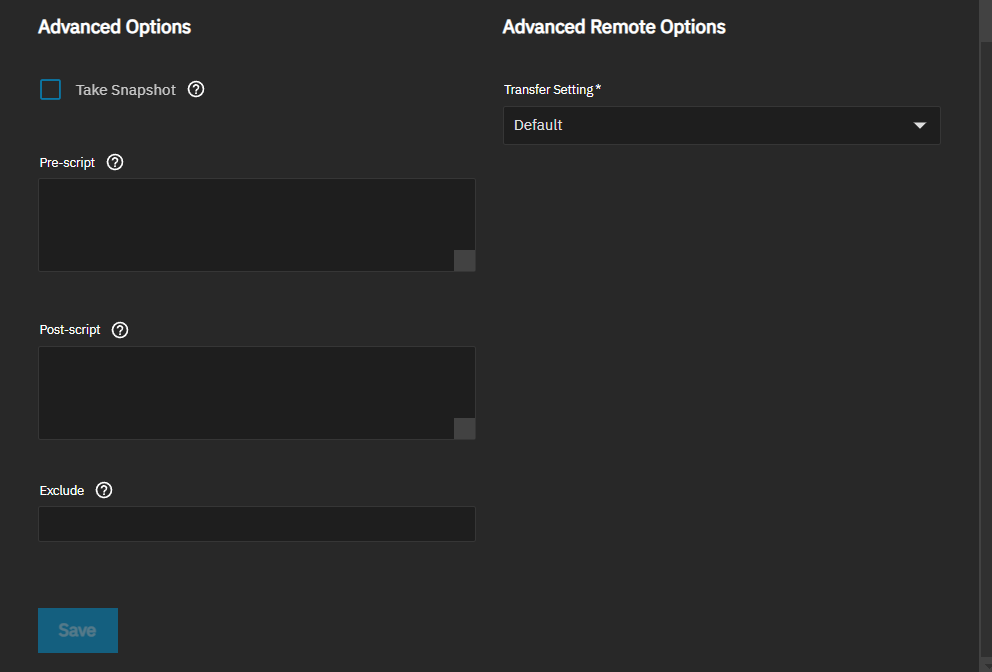
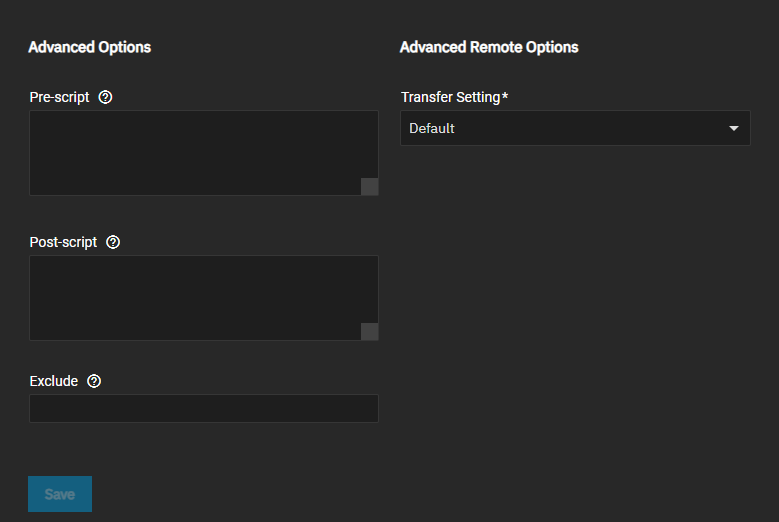
PD-1613 / 25.04 / Pd 1613 update truecloud backup article content (#3378)
* PD-1661: comment out "take snapshot" option for TrueCloud task (for now)

This has been disabled pending a rework.

* PD-1613 Update Truecloud Backup and Cloud Sync Task Article Content

This commit updates the UI ref content inr the TruecloudBackupTaskScreen.md and CloudSyncTaskScreensSCALE.md article with UI and behavior changes.
Updates the TrueCloudTasks.md and StorjBucket.md snippet files with new screenshots and updated content.

* PD-1613 Fix List of Environment Variables and Add new Screenshot

This commit converts the list of environment variables to a bullet list, and adds an updated screenshot of AddTrueCloudBackupTaskAdvancedOptions.md

* Update content/SCALE/SCALEUIReference/DataProtection/CloudSyncTasksScreensSCALE.md

---------

diff --git a/content/SCALE/SCALEUIReference/DataProtection/TrueCloudBackupTasksScreen.md b/content/SCALE/SCALEUIReference/DataProtection/TrueCloudBackupTasksScreen.md
@@ -14,7 +14,7 @@ keywords:
 
 The **TrueCloud Backup Tasks** widget on the **Data Protection** screen shows configured TrueCloud tasks, and provides access to configuration screens to add or schedule recurring transfers between TrueNAS and a cloud storage provider account like Storj iX.
 
-TrueCloud backup tasks are an effective method to back up data to a remote location, restore snapshots, or perform cloud-storage-migration.
+TrueCloud backup tasks effectively back up data to remote locations, restore snapshots, and perform cloud-storage migration.
 
 ## TrueCloud Backup Tasks Widget
 The **TrueCloud Backup Tasks** widget shows a list of tasks configured on the system.
@@ -42,7 +42,7 @@ Each task on the widget shows four icons for various functions:
 * **SUCCESS** for completed tasks.
 * **FAILED** if the task fails to complete.
 * **RUNNING** for tasks in progress.
-8 **N/A** for scheduled tasks before they run.
+* **N/A** for scheduled tasks before they run.
 
 ### TrueCloud Logs Dialog
 The state oval opens the **Logs** dialog for that task.
@@ -92,44 +92,44 @@ Additional settings show depending on the **Include/Exclude** selection.
 | Settings | Description |
 |----------|-------------|
 | **Include Everything** | Select to restore all backed-up data from the remote snapshot to the selected local path. |
-| **Include from subfolder** | Select to restore data from a subfolder within the backed-up data.  |
-| **Subfolder** | Shows when **Include from subfolder** is selected. Enter or browse to the subfolder within the snapshot to restore data from. |
+| **Include from subfolder** | Select to restore data from a subfolder within the backed-up data.  |
+| **Subfolder** | Shows when **Include from subfolder** is selected. Enter or browse to the subfolder within the snapshot with the data to restore. |
 | **Included Paths** | Shows when **Include from subfolder** is selected. Select files and directories to include from the backup. Leave empty to include everything in the selected subfolder. |
 | **Select paths to exclude** | Select to exclude only certain paths from the data to restore. |
-| **Excluded Paths** | Shows when **Select paths to exclude** is selected. Enter or select files and directories to exclude from the backup. Select as many checkboxes  as you want to select multiple paths or separate multiple entries with a comma. |
+| **Excluded Paths** | Shows when **Select paths to exclude** is selected. Enter or select files and directories to exclude from the backup. Select as many checkboxes as desired to select multiple paths or separate multiple entries with a comma. |
 | **Exclude by pattern** | Select to exclude files and directories matching defined glob patterns. |
 | **Pattern** | Shows when **Exclude by pattern** is selected. | 
 {{< /truetable >}}
 
 #### Local Settings
 Use **Local** settings to select the target mount point on the current (local) system where files are restored.
-Be cautious with setting the restore target to avoid overwriting existing files.
+Be cautious when setting the restore target to avoid overwriting existing files.
 
-**Target** enter the path to the dataset or directory or browse to the location to populate the field with the local directory where files are restored.
+**Target** settings allow entering the path to the dataset or directory or browse to the location to populate the field with the local directory where files are restored.
 
 {{< include file="/static/includes/FileExplorerFolderIcons.md" >}}
 
 **<i class="material-icons" aria-hidden="true" title="Create Dataset">create_new_folder</i> Create Dataset** opens a dialog to name and create a new dataset at the selected target.
 
 **Save** starts restoring data from the snapshot.
-  
+  
 ## Add and Edit TrueCloud Backup Task Screen
 The **Add TrueCloud Backup Task** and **Edit TrueCloud Backup Task** screens contain options to configure a new backup task.
 The edit screen opens populated with the existing task settings.
-Each screen shows the **Local**, **Remote**, **Task Settings**, and **Control** basic settings.
-The **Advanced** and **Advanced Remote Options** are for use by advanced users.
+Each screen shows the **Local**, **Remote**, **Task Settings**, and **Control** settings.
+The **Advanced** and **Advanced Remote Options** are for advanced users.
 
 {{< trueimage src="/images/SCALE/DataProtection/AddTrueCloudTaskBasicOptions.png" alt="Add TrueCloud Backup Task - Basic Options" id="Add TrueCloud Backup Task - Basic Options" >}}
 
 ### Local Settings
-**Local** settings allow selecting the dataset or directory to use in the task. Selecting the dataset populates the **Source Path** field.
+**Local** settings set the dataset or directory used in the task. Selecting the dataset populates the **Source Path** field.
 
 {{< include file="/static/includes/FileExplorerFolderIcons.md" >}}
 
 {{< truetable >}}
 | Settings | Description |
 |----------|-------------|
-| **Source Path** | Enter or browse to the path of the dataset or directory with the data to send to the cloud backup provider used in the task. Click the <span class="material-icons">arrow_right</span> arrow to the left of the **/mnt** folder to expand and show datasets and directories within that folder. This is the dataset or directory location with the data the TrueCloud backup task sends to the cloud storage provider. Click the <span class="material-icons">arrow_right</span> arrow to the left of the **/mnt** folder again to collapse the directory tree. |
+| **Source Path** | Enter or browse to select the dataset or directory with the data to send to the cloud backup provider set in the task. Click the <span class="material-icons">arrow_right</span> arrow to the left of the **/mnt** folder to expand and show datasets and directories within that folder. This is the dataset or directory location with the data the TrueCloud backup task sends to the cloud storage provider. Click the <span class="material-icons">arrow_right</span> arrow to the left of the **/mnt** folder again to collapse the directory tree. |
 {{< /truetable >}}
 
 ### Remote Settings
@@ -139,9 +139,9 @@ The **Remote** settings specify the TrueCloud credential and destination storage
 | Settings | Description |
 |----------|-------------|
 | **Credential** | Select an existing Storj iX credential from the dropdown list. TrueNAS automatically validates the selected credential. <br> Select **Add New** to open the [**Cloud Credentials**]({{< relref "CloudCredentialScreens.md" >}}) screen. This is the same configuration screen that opens when you click **Add** on the **Credentials > Backup Credentials** screen. |
-| **Bucket** | Displays after selecting the Storj credential. Select a pre-configured Storj bucket. Only TrueNAS compatible Storj buckets are selectable. <br> Select **Add New** to create a new Storj bucket from the TrueNAS UI. |
-| **New Bucket Name** | Displays when **Add New** is selected in the **Bucket** field. Enter the name for the new bucket. Only lowercase letters, numbers, and hyphens are allowed. |
-| **Folder** | Enter or browse to the dataset or directory to receive the backed-up data. Click the <span class="material-icons">arrow_right</span> arrow to the left of the folder icon and at each dataset or directory to reach the storage location to use for this task. <br> Enter <code>/<i>name</i></code>, where *name* is a folder that does not exist, to create a new folder in the bucket. |
+| **Bucket** | Displays after selecting the Storj credential. Select a pre-configured Storj bucket. Only TrueNAS-compatible Storj buckets are selectable. <br> Select **Add New** to create a new Storj bucket from the TrueNAS UI. |
+| **New Bucket Name** | Displays when **Add New** is selected in the **Bucket** field. Enter a name for the new bucket. Only lowercase letters, numbers, and hyphens are allowed. |
+| **Folder** | Enter or browse to select the dataset or directory to receive the backed-up data. Click the <span class="material-icons">arrow_right</span> arrow to the left of the folder icon and at each dataset or directory to reach the storage location to use for this task. <br> Enter <code>/<i>name</i></code>, where *name* is a folder that does not exist, to create a new folder in the bucket. |
 {{< /truetable >}}
 
 ### Task Settings
@@ -151,7 +151,7 @@ The **Remote** settings specify the TrueCloud credential and destination storage
 | Settings | Description |
 |----------|-------------|
 | **Name** | Enter a name for the TrueCloud backup task. |
-| **Keep Last** | Enter a number of past snapshot copies to retain before removing older snapshots. |
+| **Keep Last** | Enter a number for the past snapshot copies to retain before removing older snapshots. |
 | **Password** | Enter a password for the backup repository. Record this password in a secure location. Required to recreate the task using the same bucket/folder, such as in a new TrueNAS install or system, or to restore data from the existing snapshots in another TrueNAS system. |
 {{< /truetable >}}
 
@@ -170,25 +170,41 @@ The **Remote** settings specify the TrueCloud credential and destination storage
 {{< /expand >}}
 
 ### Advanced Options Settings
-**Advanced Options** settings are intended for use by advanced users.
+**Advanced Options** settings are intended for advanced users.
 
 {{< trueimage src="/images/SCALE/DataProtection/AddTrueCloudTaskAdvancedOptions.png" alt="Add TrueCloud Backup Task - Advanced Options" id="Add TrueCloud Backup Task - Advanced Options" >}}
 
+<!-- <to be re-added to the table at a later date> | **Take Snapshot** | Select to take a snapshot before transferring data to the specified cloud provider like Storj. This option is not available to datasets with child datasets. |-->
+
 {{< truetable >}}
 | Settings | Description |
 |----------|-------------|
-| **Take Snapshot** | Select to take a snapshot before transferring data to the specified cloud provider like Storj. This option is not available to datasets with child datasets. |
-| **Pre-Script** | (For advanced users only) Enter a script to execute before running the task. See the [Managing TrueCloud Backup Tasks tutorial]({{< relref "TrueCloudTasks.md #using-advanced-options" >}}) for more information. |
-| **Post-Script** | (For advanced users only) Enter a script to execute after running the task. See the [Managing TrueCloud Backup Tasks tutorial]({{< relref "TrueCloudTasks.md #using-advanced-options" >}}) for more information. |
-| **Exclude** | Enter a list of files and directories to exclude from the backup. Separate entries by pressing <kbd>Enter</kbd>. See [rclone filtering](https://rclone.org/filtering/) for more details about the `--exclude` option and proper syntax. |
+| **Pre-Script** | (For advanced users only) Enter a script to execute before running the task. See **Script Environment Variables** list below for variables you can use in scripts. See the [Managing TrueCloud Backup Tasks tutorial]({{< relref "TrueCloudTasks.md #using-advanced-options" >}}) for more information. |
+| **Post-Script** | (For advanced users only) Enter a script to execute after running the task. See **Script Environment Variables** list below for variables you can use in scripts. See the [Managing TrueCloud Backup Tasks tutorial]({{< relref "TrueCloudTasks.md #using-advanced-options" >}}) for more information. |
+| **Exclude** | Enter a list of files and directories to exclude from backup. Separate entries by pressing <kbdEnter</kbd>. See [restic exclude patterns](https://restic.readthedocs.io/en/latest/040_backup.html#excluding-files) for more details about the `--exclude option`. |
+| **Pre-Script** | (For advanced users only) Enter a script to execute before running the task. See the [Managing TrueCloud Backup Tasks tutorial]({{< relref "TrueCloudTasks.md #using-advanced-options" >}}) for more information. See **Script Environment Variables** below for a list of variables for scripts. |
+| **Post-Script** | (For advanced users only) Enter a script to execute after running the task. See the [Managing TrueCloud Backup Tasks tutorial]({{< relref "TrueCloudTasks.md #using-advanced-options" >}}) for more information. See **Script Environment Variables** below for a list of variables for scripts. |
+| **Exclude** | Enter a list of files and directories to exclude from the backup. Separate entries by pressing <kbd>Enter</kbd>. See [restic exclude patterns](https://restic.readthedocs.io/en/latest/040_backup.html#excluding-files) for more information about the `--exclude` option and proper syntax. |
 {{< /truetable >}}
 
+{{< expand "Script Environment Variables" "v" >}}
+The following environment variables can be used in pre and post-scripts.
+<li>CLOUD_BACKUP_ID
+<li>CLOUD_BACKUP_DESCRITPION
+<li>CLOUD_BACKUP_PASSWORD
+<li>CLOUD_BACKUP_KEEP_LAST
+<li>CLOUD_BACKUP_TRANSFER_SETTING
+<li>CLOUD_BACKUP_ACCESS_KEY_ID
+<li>CLOUD_BACKUP_FOLDER
+<li>CLOUD_BACKUP_BUCKET
+<li>CLOUD_BACKUP_FAST_LIST (always zero (0) for false, planned removal in Fangtooth)</li>
+{{< /expand >}}
+
 ### Advanced Remote Options
-**Advanced Remote Options** settings are intended for use by advanced users.
+**Advanced Remote Options** settings are intended for advanced users.
 
 {{< truetable >}}
 | Settings | Description |
 |----------|-------------|
-| **Transfers** | Enter the number of simultaneous file transfers to allow. Base the number on the available bandwidth and destination system performance. See [rclone --transfers](https://rclone.org/docs/#transfers-n). |
-| **Bandwidth limit** | Enter a single bandwidth limit or bandwidth limit schedule in rclone format. Separate entries by pressing <kbdEnter</kbd>. Example: *08:00,512 12:00,10MB 13:00,512 18:00,30MB 23:00,off*. You can specify units with the beginning letter **b**, **k** (default), **M**, or **G**. See [rclone --bwlimit](https://rclone.org/docs/#bwlimit-bandwidth-spec). |
+| **Transfer Settings** | Select the option from the dropdown list to set the number of simultaneous file transfers to allow. Options:<br><li>**Default** - Select to use the Restic PACK_SIZE of 16 Mib and READ_CONCURRENCY to two files.<br><li>**Perfromance** - Select to set the Restic PACK_SIZE to 29 MiB and READ_CONCURRENCY to two files.<br><li>**Fast Storage** - Select to set the Restic PACK_SIZE to 58 MiB and READ_CONCURRENCY to 100 files.</li>  |
 {{< /truetable >}}

diff --git a/content/SCALE/SCALEUIReference/DataProtection/CloudSyncTasksScreensSCALE.md b/content/SCALE/SCALEUIReference/DataProtection/CloudSyncTasksScreensSCALE.md
@@ -21,7 +21,7 @@ The **Cloud Sync Task** widget shows a list of tasks configured on the system.
 
 {{< trueimage src="/images/SCALE/DataProtection/CloudSyncTaskWidget.png" alt="Cloud Sync Task Widget" id="Cloud Sync Task Widget" >}}
 
-The widget shows **No Cloud Sync Tasks configured** until cloud sync task are added.
+The widget shows **No Cloud Sync Tasks configured** until cloud sync tasks are added.
 
 {{< trueimage src="/images/SCALE/DataProtection/CloudSyncTaskWidgetNoTasks.png" alt="No Cloud Sync Tasks" id="No Cloud Sync Tasks" >}}
 
@@ -53,7 +53,7 @@ The **Cloud Sync Task** screen lists all tasks configured on the system.
 
 {{< trueimage src="/images/SCALE/DataProtection/CloudSyncTasksScreen.png" alt="Cloud Sync Task Screen" id="Cloud Sync Task Screen" >}}
 
-Expand any task to see details on the configured task, such as the cloud sync provider, direction, transfer mode, path to the dataset or directories and other options for that task.
+Expand any task to see details on the configured task, such as the cloud sync provider, direction, transfer mode, path to the dataset or directories, and other options for that task.
 
 {{< trueimage src="/images/SCALE/DataProtection/CloudSyncTasksScreenTaskDetails.png" alt="Cloud Sync Task Details" id="Cloud Sync Task Details" >}}
 
@@ -80,7 +80,7 @@ It includes two screens, **Provider** and **What and When**.
 
 ### Provider Wizard Screen
 The **Provider** wizard screen allows you to select the cloud sync provider with the **Credentials** dropdown.
-Select the provider from the dropdown list to show the additional credential settings that provider requires to establish a connection.
+Select the provider from the dropdown list to show the additional credential settings that the provider requires to establish a connection.
 
 {{< trueimage src="/images/SCALE/DataProtection/CloudSyncTaskWizardProviderScreen.png" alt="Cloudsync Task Wizard Provider Screen" id="Cloudsync Task Wizard Provider Screen" >}}
 
@@ -100,12 +100,12 @@ The **Advanced Options** button shows at the bottom of this screen as well.
 
 ## Advanced Options and Edit Cloud Sync Task Screens
 The **Advanced Options** accessed from the **Cloudsync Task Wizard** and **Edit Cloud Sync Task** display the same settings.
-Settings are grouped into the the **Transfer**, **Remote**, **Control**, and **Advanced Options** for advanced users.
+Settings are grouped into the **Transfer**, **Remote**, **Control**, and **Advanced Options** for advanced users.
 
 The **Manage Credentials** link opens the [Backup Credentials]({{< relref "/SCALE/SCALEUIReference/Credentials/BackupCredentials/_index.md" >}}) screen.
 
 ###  Transfer Settings
-**Transfer** settings change the cloud sync task direction (**PUSH** or **PULL**), data transfer method (**COPY**, **MOVE**, or **SYNC**), and allows selecting the dataset or directory to use in the task. Selecting the dataset or file populates the **Directory/Files** field.
+**Transfer** settings change the cloud sync task direction (**PUSH** or **PULL**), data transfer method (**COPY**, **MOVE**, or **SYNC**), and allow selecting the dataset or directory to use in the task. Selecting the dataset or file populates the **Directory/Files** field.
 
 {{< trueimage src="/images/SCALE/DataProtection/AddCloudSyncTaskPushTransferRemote.png" alt="Add Cloud Sync Task Remote Settings" id="Add Cloud Sync Task Remote Settings" >}}
 
@@ -128,8 +128,8 @@ The **Manage Credentials** link opens the **Backup Credentials** screen where yo
 {{< truetable >}}
 | Settings | Description |
 |----------|-------------|
-| **Credential** | Select an exiting backup cloud storage provider credential from the dropdown list. A **Bucket** setting displays after selecting a credential that uses S3, like **Amazon S3**. TrueNAS automatically validates the selected credential. |
-| **Bucket** | Select the pre-defined bucket S3 to use. For Storj-iX credentials, select **Add New** to open the **Add Bucket** screen and create new bucket on your Storj account from the TrueNAS UI. |
+| **Credential** | Select an existing backup cloud storage provider credential from the dropdown list. A **Bucket** setting displays after selecting a credential that uses S3, like **Amazon S3**. TrueNAS automatically validates the selected credential. |
+| **Bucket** | Select the pre-defined bucket S3 to use. For Storj-iX credentials, select **Add New** to open the **Add Bucket** screen and create a new bucket on your Storj account from the TrueNAS UI. |
 | **Folder** | Enter or click the <span class="material-icons">arrow_right</span> arrow to the left of the folder icon and at each dataset or directory to reach the storage location to use for this task. |
 {{< /truetable >}}
 
@@ -187,11 +187,11 @@ The **Advanced Remote Options** settings are for advanced users to configure rem
 {{< truetable >}}
 | Settings | Description |
 |----------|-------------|
-| **Remote Encryption** | Select to use [rclone crypt](https://rclone.org/crypt/) encryption during pull and push transfers. Selecting **PUSH** in **Direction** encrypts files before transfer and stores the encrypted files on the remote system. Files are encrypted using the encryption password and encryption salt values. Selecting **PULL** decrypts files stored on the remote system before the transfer. Transferring the encrypted files requires entering the same encryption password and encryption salt used to encrypt the files. Additional details about the encryption algorithm and key derivation are available in the [rclone crypt File formats documentation](https://rclone.org/crypt/#file-formats). |
-| **Filename Encryption** | **Not recommended** (see below). When selected, transfers encrypt and decrypt file names with the rclone [Standard file name encryption mode](https://rclone.org/crypt//#file-name-encryption-modes). The original directory structure of the files is preserved. <br>When enabled, file names are encrypted, file names are limited to 143 characters, directory structure is visible, and files with identical names have identical uploaded names. File names can use sub-paths, single copy files, and shortcuts to shorten the directory recursion. <br>When disabled, encryption does not hide file names or directory structure, file names can be 246 characters long, use sub-paths, and copy single files. |
-| **Encryption Password** | Enter the password to encrypt and decrypt remote data.<br>Warning: Always securely back up this password! Losing the encryption password results in data loss. |
-| **Encryption Salt** | Enter a long string of random characters for use as salt for the encryption password.<br>Warning: Always securely back up the encryption salt value! Losing the salt value results in data loss. |
-| **Transfers** | Enter the number of simultaneous file transfers. Enter a number based on the available bandwidth and destination system performance. See [rclone --transfers](https://rclone.org/docs/#transfers-n). |
+| **Remote Encryption** | Select to use [rclone crypt](https://rclone.org/crypt/) encryption during pull and push transfers. Selecting **PUSH** in **Direction** encrypts files before transfer and stores the encrypted files on the remote system. Files are encrypted using the encryption password and encryption salt values. Selecting **PULL** decrypts files stored on the remote system before the transfer. Transferring the encrypted files requires entering the same encryption password and encryption salt used to encrypt the files. Additional details about the encryption algorithm and key derivation are available in the [rclone crypt File formats documentation](https://rclone.org/crypt/#file-formats). Selecting **Remote Encryption** shows the **Filename Encryption**, **Encryption Password**, and **Encryption Salt** settings. |
+| **Filename Encryption** | **Not recommended** (see below). Shows after selecting **Remote Encryption**. When selected, transfers encrypt and decrypt file names with the rclone [Standard file name encryption mode](https://rclone.org/crypt//#file-name-encryption-modes). The original directory structure of the files is preserved. <br>When enabled, file names are encrypted, file names are limited to 143 characters, directory structure is visible, and files with identical names have identical uploaded names. File names can use sub-paths, single-copy files, and shortcuts to shorten the directory recursion. <br>When disabled, encryption does not hide file names or directory structure, file names can be 246 characters long, and you can use sub-paths, and copy single files. |
+| **Encryption Password** | Shows after selecting **Remote Encryption**. Enter the password to encrypt and decrypt remote data.<br>Warning: Always securely back up this password! Losing the encryption password results in data loss. |
+| **Encryption Salt** | Shows after selecting **Remote Encryption**. Enter a long string of random characters for use as salt for the encryption password.<br>Warning: Always securely back up the encryption salt value! Losing the salt value results in data loss. |
+| **Transfers** | Select the option for the number of simultaneous file transfers based on the available bandwidth and destination system performance from the dropdown list. Options: **Low Bandwidth(4)**, **Medium Bandwidth (8)**, **High Bandwidth(16)**, and **Custom**. See [rclone --transfers](https://rclone.org/docs/#transfers-n). |
 | **Bandwidth limit** | Enter a single bandwidth limit or bandwidth limit schedule in rclone format. For example: *08:00,512 12:00,10MB 13:00,512 18:00,30MB 23:00,off*. Separate entries by pressing <kbd>Enter</kbd>. You can specify units with the beginning letter **b**, **k** (default), **M**, or **G**. See [rclone --bwlimit](https://rclone.org/docs/#bwlimit-bandwidth-spec). |
 {{< /truetable >}}
 

diff --git a/content/SCALE/SCALETutorials/DataProtection/TrueCloudTasks.md b/content/SCALE/SCALETutorials/DataProtection/TrueCloudTasks.md
@@ -24,14 +24,14 @@ This article provides instructions on configuring a TrueCloud backup task using 
 {{< hint type=important >}}
 To take advantage of the lower-cost benefits of the TrueCloud backup service, you must create your Storj iX account using the link provided on the **Add Cloud Credentials** screen.
 
-You must also create and authorize the storage buckets on Storj for use by TrueNAS.
+You must also create and authorize the storage buckets on Storj for TrueNAS to useS.
 
-iXsystems is not responsible for any charges incurred using a third-party vendor with the TrueCloud backup feature.
+iXsystems is not responsible for charges incurred using a third-party vendor with the TrueCloud backup feature.
 {{< /hint >}}
 
 ## TrueCloud Backup Task Requirements
 
-You must have all system storage (pool and datasets or zvols) configured and ready to receive or send data.
+You must configure all system storage (pool and datasets or zvols) and have then ready to receive or send data.
 
 ## Creating a TrueCloud Backup Task
 
@@ -63,7 +63,7 @@ To add the TrueCloud backup task, go to **Data Protection > TrueCloud Backup Tas
 
 1. Click **Add** to open the **Add TrueCloud Backup Task** screen.
 
-   {{< trueimage src="/images/SCALE/DataProtection/AddTrueCloudTask.png" alt="Add TrueCloud Backup Task" id="Add TrueCloud Backup Task" >}}
+   {{< trueimage src="/images/SCALE/DataProtection/AddTrueCloudTaskBasicOptions.png" alt="Add TrueCloud Backup Task" id="Add TrueCloud Backup Task" >}}
 
 2. Enter or browse to select the local **Source Path** to the directories or files you want sent to the cloud for backup.
    Click the arrow to the left of the name to expand it, then click on the name to select it.
@@ -71,11 +71,11 @@ To add the TrueCloud backup task, go to **Data Protection > TrueCloud Backup Tas
 3. Select the Storj credential on the **Credentials** dropdown list.
    You can select **Add New** to create the Storj credential if you skipped the instructions above.
 
-4. Select the the Storj bucket to use from the **Bucket** dropdown list.
+4. Select the Storj bucket to use from the **Bucket** dropdown list.
 
    If you have not previously created a TrueNAS compatible Storj bucket, select **Add New** and follow the procedure in [Creating a TrueNAS Storj Bucket](#creating-a-truenas-storj-bucket).
 
-   Click the arrow icon for the **Folder** field to expand the dropdown list and select the desired folder in the Storj bucket or enter a folder path.
+   Click the arrow icon for the **Folder** field to expand the dropdown list and select the desired folder in the Storj bucket, or enter a folder path.
    Enter `/name`, where *name* is a folder that does not exist, to create a new folder in the Storj bucket.
 
 5. Enter a name for the task under **Task Settings**.
@@ -101,18 +101,22 @@ The task status changes to **SUCCESS** when complete.
 
 **Advanced Options** and **Advanced Remote Options** contain additional settings for advanced users.
 
-To take a snapshot before transferring data to Storj, select **Take Snapshot**.
+{{< trueimage src="/images/SCALE/DataProtection/AddTrueCloudTaskAdvancedOptions.png" alt="Add TrueCloud Backup Task Advanced Options" id="Add TrueCloud Backup Task Advanced Options" >}}
+
+<!-- <to be re-added at a later date> To take a snapshot before transferring data to Storj, select **Take Snapshot**.
 This option is not available for datasets with child datasets.
+-->
 
 Advanced users can write scripts that run immediately before or after the TrueCloud backup task.
 Enter environment variables in either the **Pre-script** or **Post-script** fields.
 The **Post-script** field only runs when the TrueCloud backup task succeeds.
+See [TrueCloud Backup Tasks Screens]({{< relref "truecloudbackuptasksscreen.md #advanced-options-settings" >}}) for information on available environment variables.
 
 Use **Exclude** to enter a list of files and directories to exclude from sync.
-Separate entries by pressing <kbd>Enter</kbd>.
+Press <kbd>Enter</kbd> to separate entries.
 See [TrueCloud Backup Tasks Screens]({{< relref "truecloudbackuptasksscreen.md #advanced-options-settings" >}}) for syntax examples.
 
-Use **Transfers** and **Bandwidth Limit** to prevent excess resource consumption and set a bandwidth availability schedule.
+Use **Transfer Settings** to prevent excess resource consumption by setting the pack size and read concurrency.
 
 ## Managing TrueCloud Tasks
 

diff --git a/static/includes/StorjBucket.md b/static/includes/StorjBucket.md
@@ -2,7 +2,7 @@
 
 {{< hint type=info title="Storj Bucket Compatibility" >}}
 Not all Storj buckets are TrueNAS compatible.
-To create a TrueNAS compatible bucket, you must either log in to Storj using the [ix Storj affiliate link](https://us1.storj.io/signup?partner=ix-storj-1) before creating the bucket in the Storj UI or create the bucket using the **Add New** option in the TrueNAS UI.
+To create a TrueNAS-compatible bucket, either log in to Storj using the [ix Storj affiliate link](https://us1.storj.io/signup?partner=ix-storj-1) before creating the bucket in the Storj UI, or use the TrueNAS UI to create the bucket using the **Add New** option.
 {{< /hint >}}
 
 To create a Storj bucket from the TrueNAS UI:
@@ -10,28 +10,32 @@ To create a Storj bucket from the TrueNAS UI:
 Go to **Data Protection**.
 Click **Add** on either the **TrueCloud Backup Tasks** or **Cloud Sync Tasks** widget.
 
-* If using the [Add TrueCloud Backup Task]({{< relref "truecloudbackuptasksscreen.md" >}}) screen, select the stored Storj cloud credential from the **Credentials** dropdown.
-  This should be done as part of setting up a task.
-  
-   {{< trueimage src="/images/SCALE/DataProtection/AddTrueCloudTaskNewBucket.png" alt="TrueCloud Add New Bucket Settings" id="TrueCloud Add New Bucket Settings" >}}
+If using the [Add TrueCloud Backup Task]({{< relref "truecloudbackuptasksscreen.md" >}}) screen:
 
-   Select **Add New** from the **Bucket** dropdown.
+1. Select the stored Storj cloud credential from the **Credentials** dropdown.
+   Do this as part of setting up a task.
+  
+ {{< trueimage src="/images/SCALE/DataProtection/AddTrueCloudTaskNewBucket.png" alt="TrueCloud Add New Bucket Settings" id="TrueCloud Add New Bucket Settings" >}}
 
-   Enter a name for the new bucket. Only lowercase letters, numbers, and hyphens are allowed
+2. Select **Add New** from the **Bucket** dropdown.
 
-   Continue to configure the TrueCloud back up task, then click **Save**.
+3. Enter a name for the new bucket. Only lowercase letters, numbers, and hyphens are allowed
+
+4. Continue to configure the TrueCloud backup task, then click **Save**.
    TrueNAS creates the task and remote bucket on Storj.
 
-* If using the [Cloud Sync Task Wizard]({{< relref "cloudsynctasksscreensscale.md" >}}), select the stored Storj cloud credential from the **Provider > Credentials** dropdown.
-  This can be done as part of setting up a task or the wizard can be used to create the bucket without saving a configured task.
+If using the [Cloud Sync Task Wizard]({{< relref "cloudsynctasksscreensscale.md" >}}):
 
-   Click **Verify Credential** for verification, then click **Next** to go to the **What and When** screen.
+1. Select the stored Storj cloud credential from the **Provider > Credentials** dropdown.
+ Do this as part of setting up a task, or use the wizard to create the bucket without saving a configured task.
 
-   Select **Add New** to open the **Add Bucket** screen.
+2. Click **Verify Credential** for verification, then click **Next** to go to the **What and When** screen.
 
-   {{< trueimage src="/images/SCALE/DataProtection/AddCloudSyncTaskNewBucket.png" alt="Add Bucket Screen" id="Add Bucket Screen" >}}
+3. Select **Add New** to open the **Add Bucket** screen.
 
-   Enter a name for the new bucket.
+ {{< trueimage src="/images/SCALE/DataProtection/AddCloudSyncTaskNewBucket.png" alt="Add Bucket Screen" id="Add Bucket Screen" >}}
 
-   Click **Save**.
-   TrueNAS creates the remote bucket on Storj then returns to the **Cloud Sync Task Wizard**.
+4. Enter a name for the new bucket.
+
+5. Click **Save**.
+   TrueNAS creates the remote bucket on Storj and then returns to the **Cloud Sync Task Wizard**.
